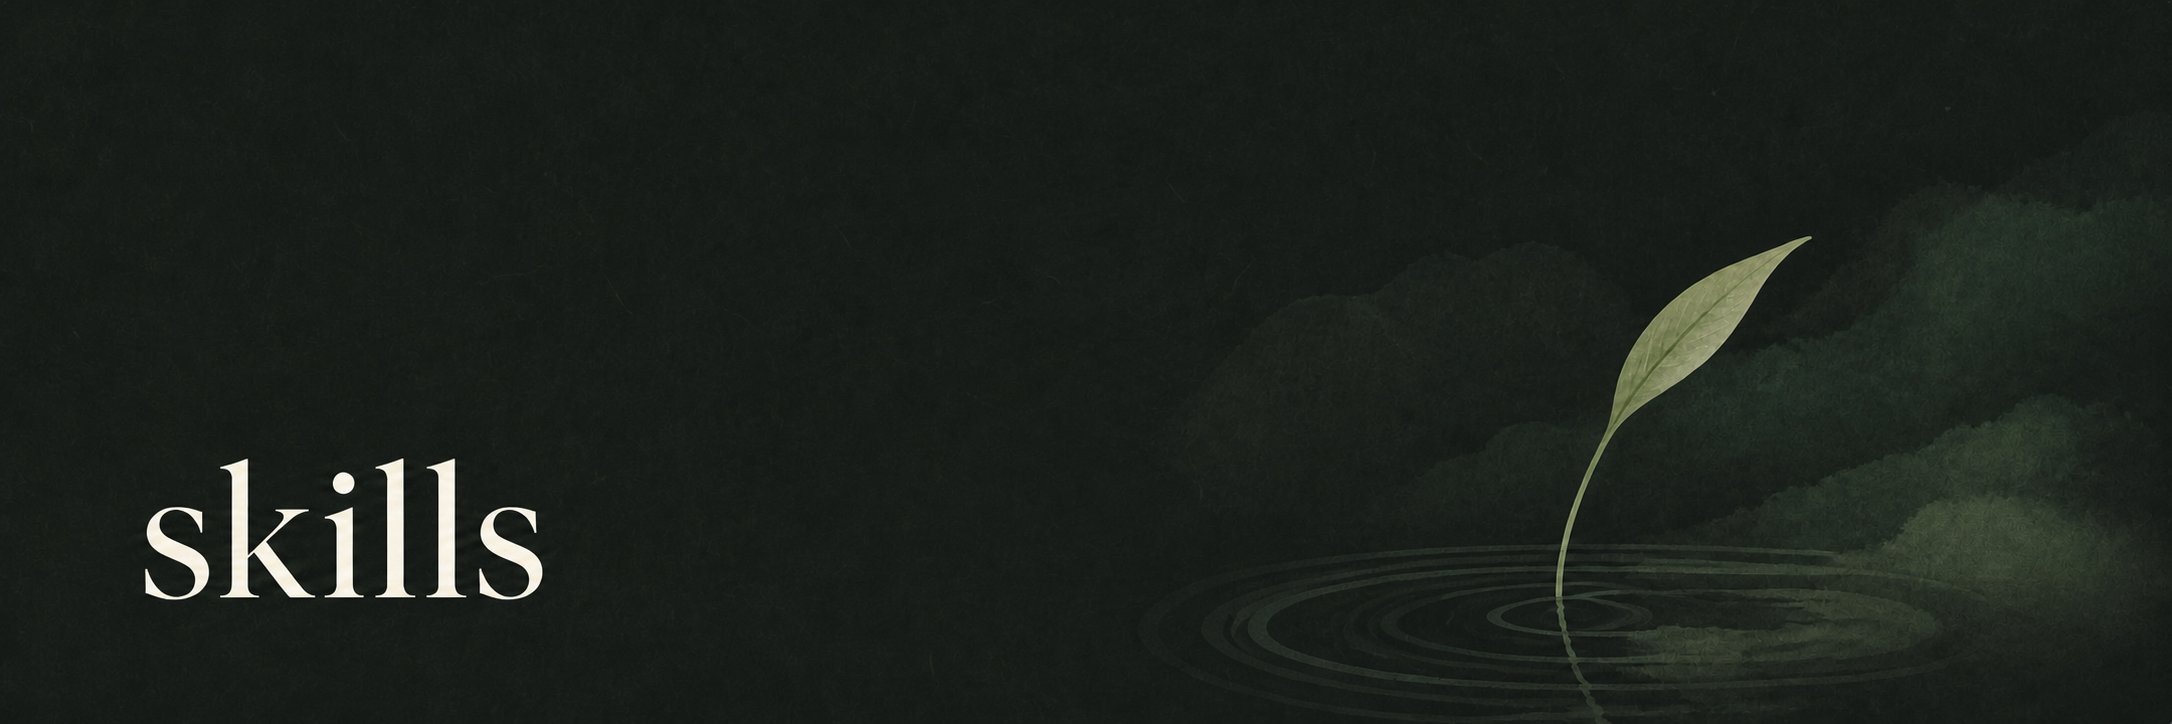
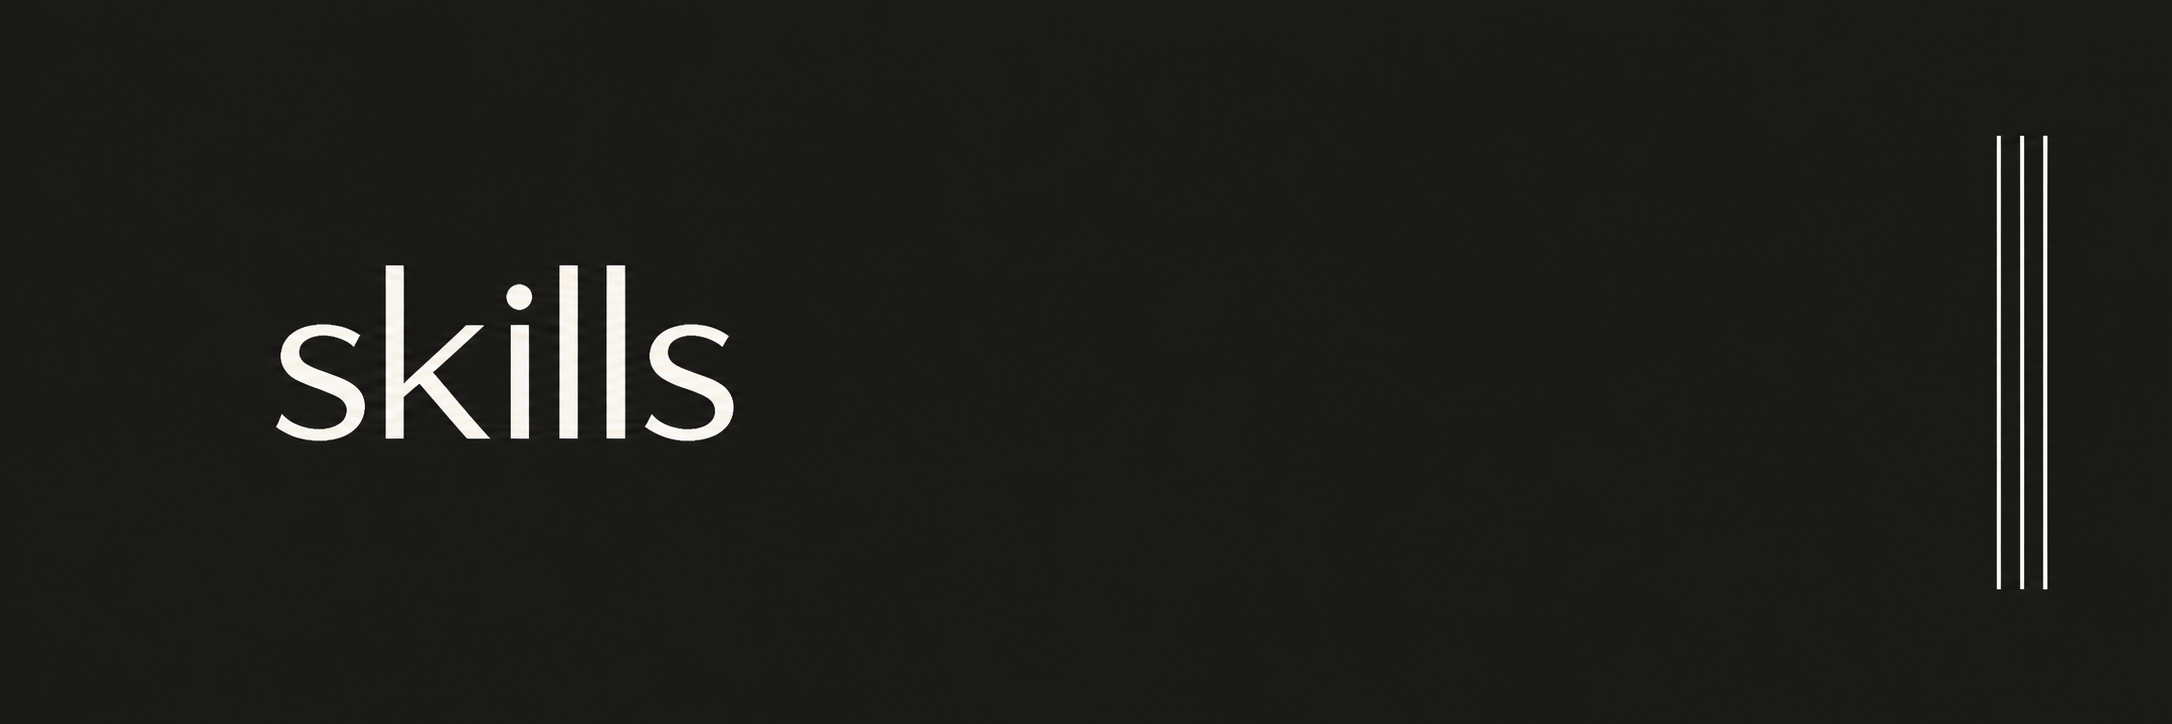
feat: support parallel repository workflows (#72)
Teach the README and banner skills to handle explicitly named repositories independently. Refresh the README hero assets and accessibility labels.

diff --git a/plugins/brand/skills/logo-banner/SKILL.md b/plugins/brand/skills/logo-banner/SKILL.md
@@ -11,6 +11,25 @@ metadata:
 Create a small, coherent raster identity system through ChatGPT Image, from a
 confirmed visual direction to approved project assets.
 
+## When a request names several repositories
+
+Treat every explicitly named repository as a separate identity system. Record
+its exact path or URL, audience, existing visual language, asset location, and
+approval state before creating a direction. If a name cannot be resolved to one
+repository, ask; never widen the scope by searching an unspecified parent
+directory.
+
+Inspect, draft, generate, and check independent repositories concurrently when
+the host supports concurrent work. Keep each repository's composition, copy,
+assets, prompts, and approvals separate. A shared identity system exists only
+when the user explicitly requests one after both repositories have been
+inspected; otherwise, an approval or asset for one repository never authorizes
+reuse or integration in another.
+
+Give one combined handoff with a clearly labelled result for each repository:
+asset paths, final prompt, visual checks, approval state, integration state, and
+any remaining blocker. A completed identity system never stands in for the rest.
+
 ## Establish the direction first
 
 1. Inspect the project before proposing a look. Identify its name, purpose,

diff --git a/plugins/docs/skills/readme/SKILL.md b/plugins/docs/skills/readme/SKILL.md
@@ -10,6 +10,23 @@ metadata:
 
 A README answers three questions for someone who has never seen the repository: what is this, can I run it, and where do I go next. Everything else is a distraction from those three.
 
+## When a request names several repositories
+
+Treat every explicitly named repository as its own scope. Record its exact path
+or URL, README target, available evidence, and verification state before
+editing. If a name cannot be resolved to one repository, ask; never widen the
+scope by searching an unspecified parent directory.
+
+Inspect, write, and render-check independent repositories concurrently when the
+host supports concurrent work. Keep their commands, versions, deployment facts,
+assets, and reader language separate unless the user supplies evidence that a
+fact is shared. An inaccessible or blocked repository does not delay safe work
+on another one.
+
+Give one combined handoff with a clearly labelled result for each repository:
+changed files, evidence and rendering checks, then any remaining blocker. A
+single successful README never stands in for the rest.
+
 ## Read the repository before writing a line
 
 Never describe a project from its name. Every claim in the output must come from a file you read.

diff --git a/README.md b/README.md
@@ -2,7 +2,7 @@
 
 <picture>
   <source media="(prefers-color-scheme: dark)" srcset="assets/hero-dark.png">
-  <img alt="skills — personal agent skills marketplace" src="assets/hero-light.png" width="820">
+  <img alt="skills marketplace for personal agent skills" src="assets/hero-light.png" width="820">
 </picture>
 
 <br />

diff --git a/README.zh-CN.md b/README.zh-CN.md
@@ -2,7 +2,7 @@
 
 <picture>
   <source media="(prefers-color-scheme: dark)" srcset="assets/hero-dark.png">
-  <img alt="skills — personal agent skills marketplace" src="assets/hero-light.png" width="820">
+  <img alt="skills — 个人智能体技能市场" src="assets/hero-light.png" width="820">
 </picture>
 
 <br />
